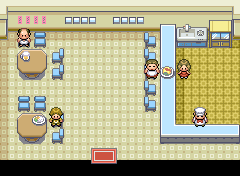
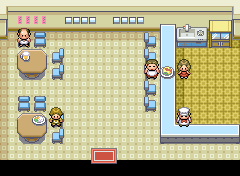
v2.43 site

Changed region(s): [[0.7292, 0.5966, 0.875, 0.7386]]

diff --git a/getit.html b/getit.html
@@ -21,7 +21,7 @@
   <h1>Get It</h1>
   <p class="lead">Three steps to Kanto. FireRed Reforged is a free patch for a ROM you own.</p>
   <div style="margin-top:26px">
-    <a class="btn solid" href="https://github.com/jsunaldo/Pokemon-FireRed-Reforged/releases/download/v2.42/FireRed_Reforged_v2.42.bps">Download v2.42 patch (.bps)</a>
+    <a class="btn solid" href="https://github.com/jsunaldo/Pokemon-FireRed-Reforged/releases/download/v2.43/FireRed_Reforged_v2.43.bps">Download v2.43 patch (.bps)</a>
   </div>
   <p class="footnote" style="margin-top:12px"><a href="https://github.com/jsunaldo/Pokemon-FireRed-Reforged/releases">All releases &amp; notes on GitHub</a></p>
 </div>
@@ -34,7 +34,7 @@
         sha1 <code>41cb23d8…e6e2fdc</code><br>crc32 <code>DD88761C</code></p></div>
       <div class="card"><div class="big">2</div><h3>Apply the patch</h3>
         <p>Use any BPS patcher — <a href="https://www.marcrobledo.com/RomPatcher.js/">Rom Patcher JS</a> in the
-        browser, Flips, or beat. It refuses a wrong base ROM. Patched crc32 <code>468CF61C</code>.</p></div>
+        browser, Flips, or beat. It refuses a wrong base ROM. Patched crc32 <code>3B59E4C2</code>.</p></div>
       <div class="card"><div class="big">3</div><h3>Start fresh</h3>
         <p>Load it in your favorite GBA emulator or flash cart and start a <b>new save</b>. Pick your mode, decide whether to randomize.
         Say hi to the Gentleman.</p></div>
@@ -49,6 +49,7 @@
     <h2>What's new</h2>
     <div class="card" style="margin-top:36px;max-width:860px;margin-left:auto;margin-right:auto">
       <ul class="news">
+        <li><b>2.43</b> &mdash; The Celadon Restaurant chef stays at the counter, so his LEFTOVERS gift is always reachable.</li>
         <li><b>2.42</b> &mdash; The Route 9 guard no longer pops into view as you leave Cerulean.</li>
         <li><b>2.41</b> &mdash; The Crown League: Hoenn&rsquo;s Elite Four and Champion Steven, all Lv 100, on Wyrmspire Isle once every Crown Isle leader is beaten.</li>
         <li><b>2.40</b> &mdash; Reusable TMs are no longer used up when the Pok&eacute;mon forgets a move to learn one.</li>
